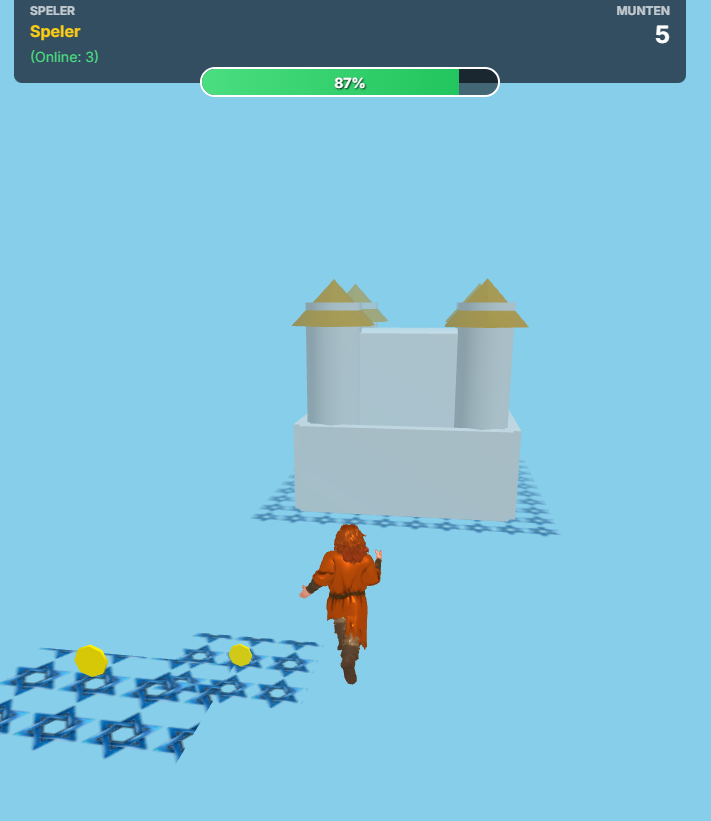
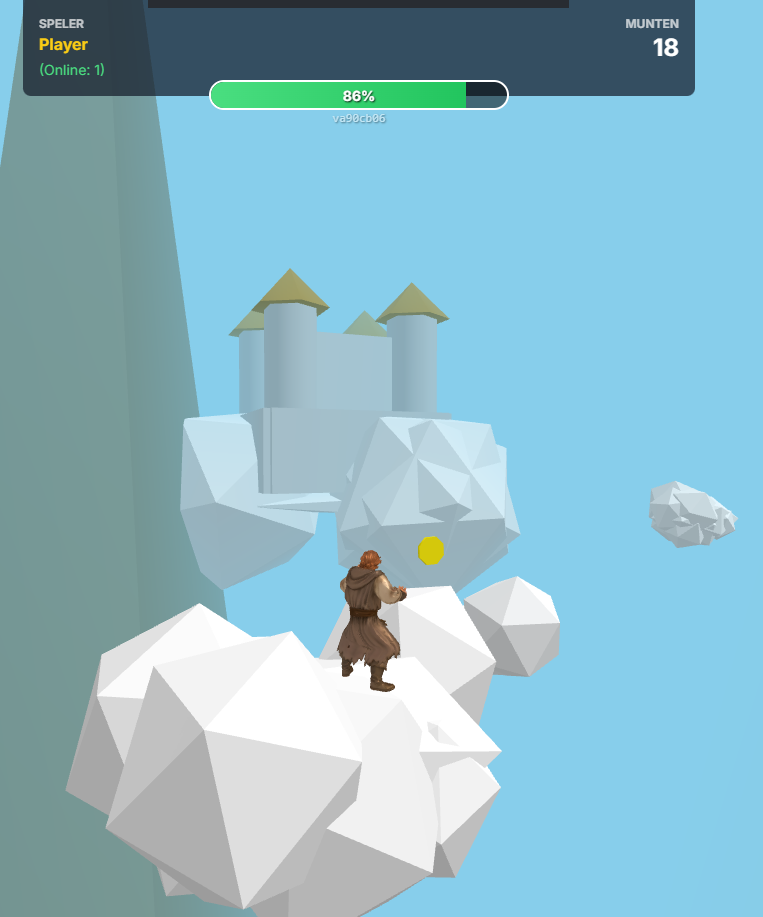
updated readme

diff --git a/world.js b/world.js
@@ -223,7 +223,8 @@ export function generateWorldData(CASTLE_Z) {
         let d = 4 + Math.random() * 4;
 
         data.platforms.push({ x, y, z, w, h, d });
-        // REMOVED: No longer spawning coins here
+
+        // spawning coins here
         if (Math.random() > 0.4) data.coins.push({ x, y: y + 3, z }); 
         if (Math.random() > 0.7) data.enemies.push({ x, y: y + 3, z });
         z -= (5 + Math.random() * 4);